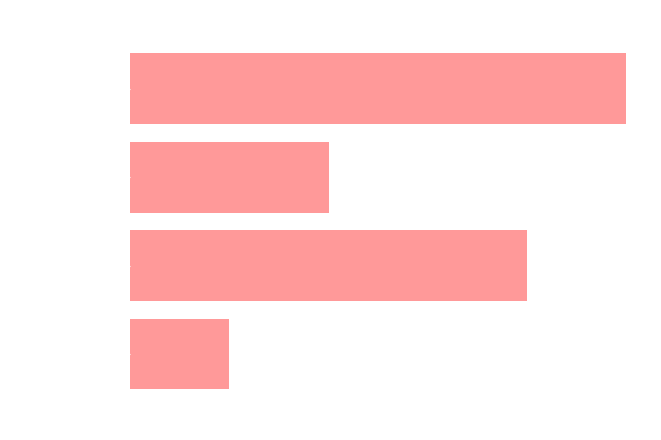
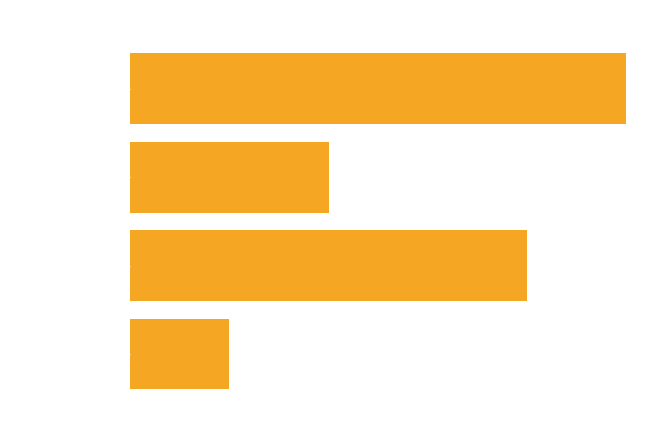
Add orange to color palette

Changed region(s): [[0.1815, 0.325, 0.8169, 0.8864], [0.1815, 0.1182, 0.9682, 0.2955]]

diff --git a/src/generate_charts.py b/src/generate_charts.py
@@ -44,7 +44,7 @@ covid_x = pd.to_datetime('20/03/2020', format='%d/%m/%Y')
 # Covid pandemics reference line
 ax.axvline(
     x=covid_x
-    ,color='red'
+    ,color=settings.config['images']['colors']['orange']
     ,alpha=0.4)
 
 # Covid pandemics annotation
@@ -57,7 +57,7 @@ ax.text(
 # Today reference line
 ax.axvline(
     x=today
-    ,color='red'
+    ,color=settings.config['images']['colors']['orange']
     ,alpha=0.4)
 
 # Today annotation
@@ -146,8 +146,7 @@ ax = fig.add_subplot()
 ax.barh(
     y=devs
     ,width=[1,4,2,5]
-    ,color='red'
-    ,alpha=0.4)
+    ,color=settings.config['images']['colors']['orange'])
 
 ax.set_title('Development', fontsize=18)
 ax.set_xticks(
